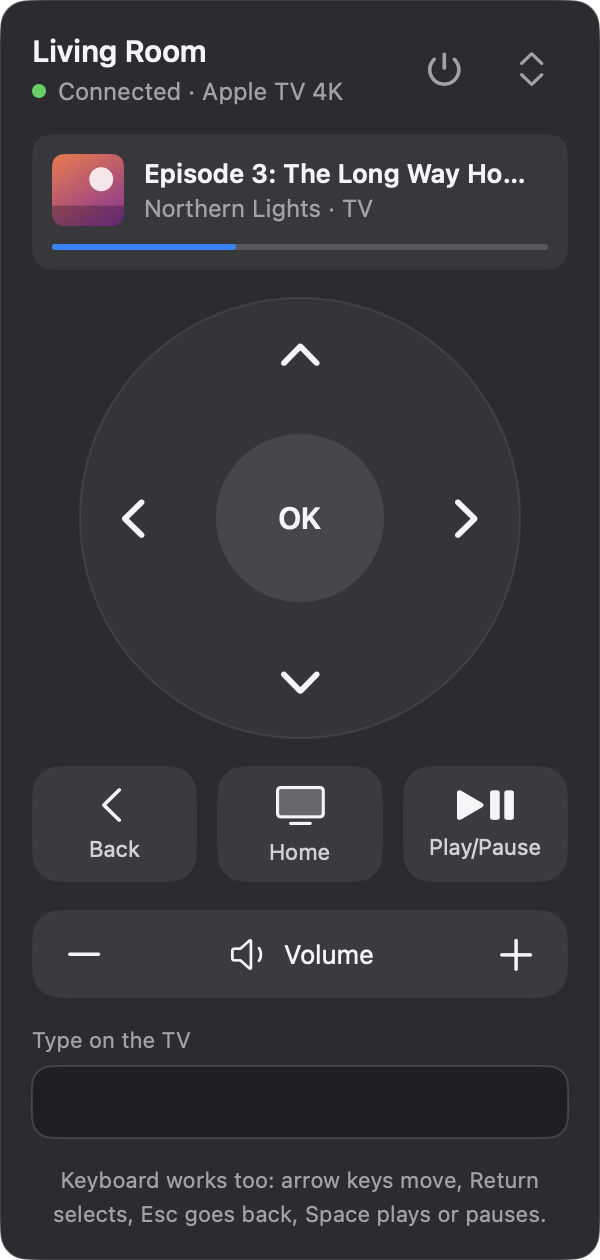
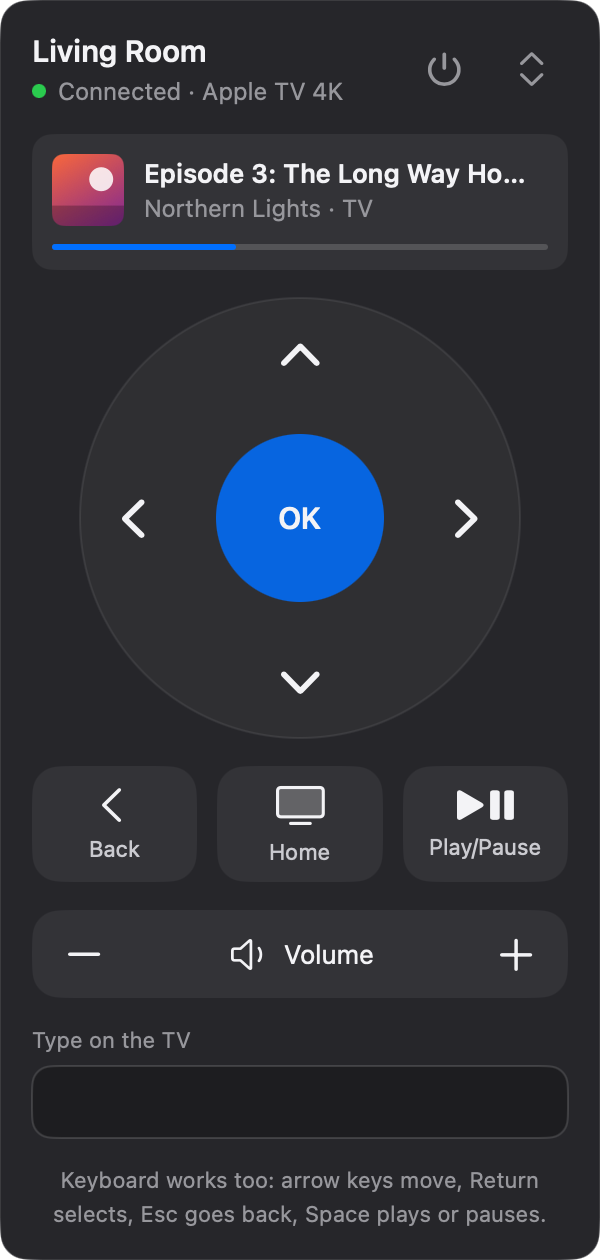
Give the classic design's OK button the accent color too
The classic design's OK button was plain grey, so it never picked up the
accent color. It's now filled with it like the Pair button. Also updates the
classic screenshot and notes the accent color in the design spec.

Changed region(s): [[0.36, 0.3405, 0.66, 0.4952], [0.09, 0.1857, 0.39, 0.2167], [0.06, 0.0619, 0.09, 0.0929]]

diff --git a/App/Views/Clickpad.swift b/App/Views/Clickpad.swift
@@ -64,7 +64,7 @@ struct Clickpad: View {
         if theme.isGlass, #available(macOS 26, *) {
             button.buttonStyle(GlassControlStyle(tint: Color.accentColor.opacity(0.62)))
         } else {
-            button.buttonStyle(FilledButtonStyle(fill: Color(hex: 0x46464C), radius: nil))
+            button.buttonStyle(FilledButtonStyle(fill: Color.accentColor.opacity(0.85), radius: nil))
         }
     }
 

diff --git a/BUILD_PLAN.md b/BUILD_PLAN.md
@@ -286,7 +286,7 @@ Don't substitute the SF Symbol `appletvremote.gen4`. Use the custom icon above.
 | Disconnected | Icon at **40% opacity** |
 | Connected | Icon at 100% |
 | Open (popover showing) | Highlight drawn by the system. On macOS 26 it's the glass capsule; on older versions the standard menu bar highlight. Don't custom-draw it. |
-| Needs pairing | Icon plus a **5 pt-radius dot**, top-right (offset ≈ x +8, y +5 on a 56 × 48 test tile; scale to the 11 × 19 icon so the dot touches the body's top-right corner). Design color is blue `#0A84FF` (dark) / `#0A6CFF` (light). |
+| Needs pairing | Icon plus a **5 pt-radius dot**, top-right (offset ≈ x +8, y +5 on a 56 × 48 test tile; scale to the 11 × 19 icon so the dot touches the body's top-right corner). Design color is blue `#0A84FF` (dark) / `#0A6CFF` (light). *(Changed 2026-10-12, 0.2.1: uses the system accent color instead; blue with Multicolor.)* |
 
 **Shipped (Milestone 8):** the composited non-template `NSImage`. The remote is tinted at draw time with the label color for the current appearance and the dot is drawn in the blue for that appearance. It renders correctly on light and dark backgrounds in the debug icon dump, but the real menu bar applies its own vibrancy, so it still needs a look on a light and a dark menu bar. The dot is read as **5 pt across** at menu bar size (a 5 pt radius would be wider than the 11 pt icon), centered on the body's top-right corner; the canvas is 1 pt wider than the icon so the dot isn't clipped.
 
@@ -334,7 +334,7 @@ Don't substitute the SF Symbol `appletvremote.gen4`. Use the custom icon above.
   - Icon: chevrons at **22 pt**, stroke weight ≈ semibold. Use `chevron.up/down/left/right`.
   - No visible background.
 - Center **OK** button:
-  - Circle **88** diameter, `.buttonStyle(.glassProminent)` tinted blue `rgba(10,110,255,0.62)`. Use `.tint(Color(red: 10/255, green: 110/255, blue: 1).opacity(0.62))`.
+  - Circle **88** diameter, `.buttonStyle(.glassProminent)` tinted blue `rgba(10,110,255,0.62)`. Use `.tint(Color(red: 10/255, green: 110/255, blue: 1).opacity(0.62))`. *(Changed 2026-10-12, 0.2.1: uses the system accent color instead; blue with Multicolor.)*
   - Label "OK" at **16 semibold**.
 - **Gestures**: a click on an arrow presses that direction. Drag/swipe on the ring (≥ 30 pt travel) sends the matching direction, once per swipe.
 
@@ -378,8 +378,8 @@ The same structure and order as 5.2, with these differences:
 | Device name | 15 semibold |
 | Secondary text | `#A1A1A6` |
 | Switcher | 36 × 36, radius 9, transparent, icon `#A1A1A6` |
-| Now playing card | Padding 10, radius 10, white 6% fill; artwork 36 × 36 radius 6 `#4A5A6A`; progress 3 pt, track white 16%, fill `#0A84FF` |
-| Clickpad | 220 diameter, fill `#353539`, 1 pt white 8% border; arrows 44 × 44 inset 6; OK 84 diameter fill `#46464C`, 15 semibold |
+| Now playing card | Padding 10, radius 10, white 6% fill; artwork 36 × 36 radius 6 `#4A5A6A`; progress 3 pt, track white 16%, fill `#0A84FF` *(Changed 2026-10-12, 0.2.1: uses the system accent color instead; blue with Multicolor.)* |
+| Clickpad | 220 diameter, fill `#353539`, 1 pt white 8% border; arrows 44 × 44 inset 6; OK 84 diameter fill `#46464C`, 15 semibold *(Changed 2026-10-12, 0.2.1: OK is filled with the system accent color at 85%, like the Pair button.)* |
 | Button row | Height 58, radius 14, fill `#3A3A3F`, label color `#D1D1D6` |
 | Volume pill | Height 44, radius 14, fill `#3A3A3F` |
 | Text field | Height 36, radius 10, padding 12, fill `#1F1F23`, border white 14% |
@@ -395,13 +395,13 @@ Shown in place of the remote when the state is `.needsPairing`, inside the same 
 - **Body**: "Enter the 4-digit code shown on your TV." at **13**, white 80%.
 - **PIN boxes**: 4 boxes, HStack spacing **10**.
   - Each box **54 × 62**, radius **18**, fill black 26%, 1 pt white 26% border, digit at **28 semibold**, centered.
-  - Focused box: **2 pt `#4DA3FF`** border plus a 3 pt outer ring at `#4DA3FF` 28%.
+  - Focused box: **2 pt `#4DA3FF`** border plus a 3 pt outer ring at `#4DA3FF` 28%. *(Changed 2026-10-12, 0.2.1: uses the system accent color instead; blue with Multicolor.)*
   - Typing advances focus; Delete goes back; paste of 4 digits fills all boxes.
 - **Pair button**:
-  - Full width, height **44**, capsule, `.buttonStyle(.glassProminent)` tinted `rgba(10,100,235,0.85)`, label **14 semibold**.
+  - Full width, height **44**, capsule, `.buttonStyle(.glassProminent)` tinted `rgba(10,100,235,0.85)`, label **14 semibold**. *(Changed 2026-10-12, 0.2.1: the system accent color at 85%.)*
   - Disabled until 4 digits are entered.
   - Shows a spinner while verifying.
-- **Cancel button**: full width, height **40**, plain, text `#A9D2FF` at **14**.
+- **Cancel button**: full width, height **40**, plain, text `#A9D2FF` at **14**. *(Changed 2026-10-12, 0.2.1: the accent color mixed 60% with white on macOS 15+, the plain accent color on 14.)*
 - **Footnote**: "You only do this once. The pairing key stays in your Mac's Keychain." at **11**, white 78%.
 - **Wrong PIN**: shake the boxes, clear them, then show "That code didn't match. Try again." in the body line.
 
